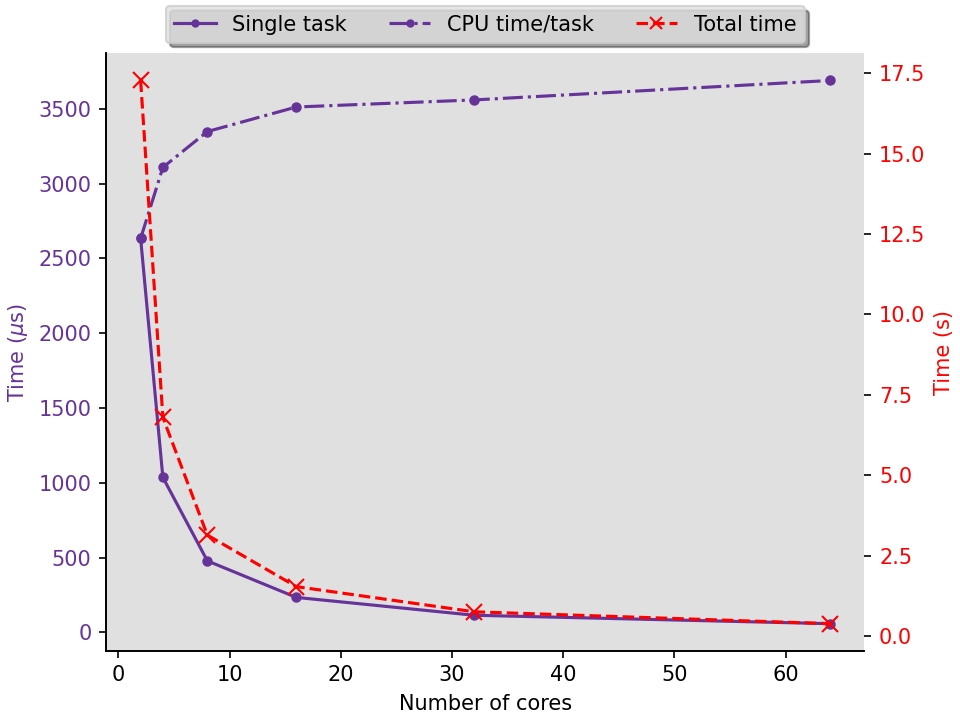
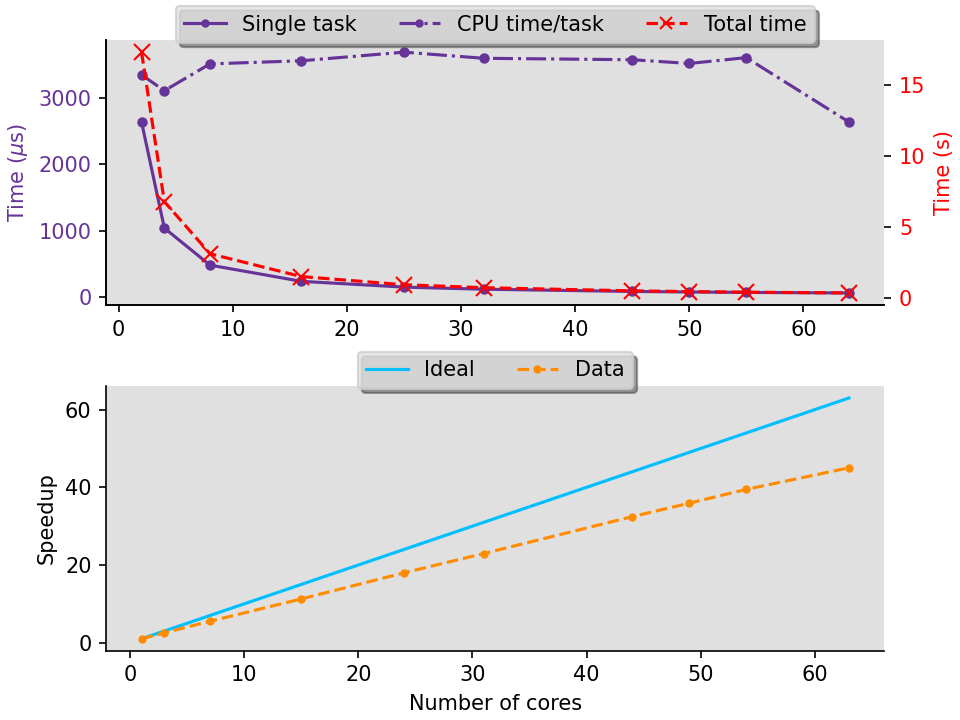
visualization

diff --git a/Assignments/3Assignment_particle/visualize_results.py b/Assignments/3Assignment_particle/visualize_results.py
@@ -2,6 +2,8 @@ import numpy as np
 import matplotlib.pyplot as plt
 import general_functions as gf  # My file with functions
 from matplotlib.lines import Line2D
+from scipy.optimize import curve_fit
+
 
 # Load data
 data = np.genfromtxt("slurm_time_output.txt", delimiter=",", skip_header=1)
@@ -9,40 +11,104 @@ Ntasks = data[:, 0]
 time_task = data[:, 1]
 time_total = data[:, 2]
 
+# Multiple datapoints for ntasks = 2 (i.e 1 worker). 
+# Combine into one and get uncertainty
+one_worker_idx = np.where(Ntasks==2)[0]
+not_one_worker_idx = np.where(Ntasks!=2)[0]
+time_task_one_worker = time_task[one_worker_idx]
+time_total_one_worker = time_total[one_worker_idx]
+
+mean_task = np.mean(time_task_one_worker)
+std_task = np.std(time_task_one_worker) / np.sqrt(time_total_one_worker.size)
+mean_total = np.mean(time_total_one_worker)
+std_total = np.std(time_total_one_worker) / np.sqrt(time_total_one_worker.size)
+
+# Remove the one worker points and insert the mean instead
+Ntasks = np.append(Ntasks[not_one_worker_idx], 2)
+time_task = np.append(time_task[not_one_worker_idx], mean_task)
+time_total = np.append(time_total[not_one_worker_idx], mean_total)
+
+CPU_time_per_task = time_task * (Ntasks - 1)  # -1 because of Master
+
 # Sort data
 sort_idx = np.argsort(Ntasks)
 Ntasks = Ntasks[sort_idx]
 time_task = time_task[sort_idx]
 time_total = time_total[sort_idx]
 
-# Subtask A
+
+# -- SUBTASK A --
 # Plot time_task vs Ntasks
-CPU_time_per_task = time_task * (Ntasks - 1)  # -1 because of Master
+def subtask_A():
+    fig, (ax, ax1) = plt.subplots(nrows=2)
+    ax_color = "rebeccapurple"
+    ax.plot(Ntasks, time_task, ".-", c=ax_color, markersize=8, label="Single Task")
+    ax.plot(Ntasks, CPU_time_per_task, ls="dashdot", marker=".", markersize=8, c=ax_color, label="CPU time/task")
+    ax.set_ylabel(r"Time ($\mu$s)", color=ax_color)
+    ax.tick_params(axis="y", labelcolor=ax_color)
 
-fig, ax = plt.subplots()
-ax_color = "rebeccapurple"
-ax.plot(Ntasks, time_task, ".-", c=ax_color, markersize=8, label="Single Task")
-ax.plot(Ntasks, CPU_time_per_task, ls="dashdot", marker=".", markersize=8, c=ax_color, label="CPU time/task")
-ax.set(xlabel="Number of cores")
-ax.set_ylabel(r"Time ($\mu$s)", color=ax_color)
-ax.tick_params(axis="y", labelcolor=ax_color)
+    # Twin axis
+    ax_twin = ax.twinx()
+    ax_twin_color = "red"
+    ax_twin.set_ylabel(r"Time (s)", color=ax_twin_color)
+    ax_twin.plot(Ntasks, time_total, ls="--", marker="x", markersize=8, c=ax_twin_color)
+    ax_twin.tick_params(axis="y", labelcolor=ax_twin_color)
+
+    legend_elements = [Line2D([], [], color=ax_color, ls="-", marker=".", label="Single task"),
+                    Line2D([], [], color=ax_color, ls="dashdot", marker=".", label="CPU time/task"),
+                    Line2D([], [], color=ax_twin_color, ls="--", marker="x", label="Total time")]
+    ax.legend(handles=legend_elements, loc="lower center", bbox_to_anchor=(0.5, 0.95), ncol=3)
+
+    # Ax 1 - relative
+
+    N_worker = Ntasks - 1    
+    time_task_rel = time_task[0] / time_task  # Ignore the first point as it 
+    ax1.plot(N_worker, N_worker, c="deepskyblue", label="Ideal")  
+    ax1.plot(N_worker, time_task_rel, ls="--", marker=".", c="darkorange", label="Data")  # -1 to remove master
+    ax1.set(xlabel="Number of cores", ylabel="Speedup")
+    ax1.legend(loc="lower center", bbox_to_anchor=(0.5, 0.95), ncol=2)
+
+    figname = "ex3a_time_per_task.png"
+    plt.savefig(figname)
+    plt.show()
+    plt.close()
 
 
-# Twin axis
-ax_twin = ax.twinx()
-ax_twin_color = "red"
-ax_twin.set_ylabel(r"Time (s)", color=ax_twin_color)
-ax_twin.plot(Ntasks, time_total, ls="--", marker="x", markersize=8, c=ax_twin_color)
-ax_twin.tick_params(axis="y", labelcolor=ax_twin_color)
+# -- SUBTASK B --
+def subtask_B():
 
-legend_elements = [Line2D([], [], color=ax_color, ls="-", marker=".", label="Single task"),
-                   Line2D([], [], color=ax_color, ls="dashdot", marker=".", label="CPU time/task"),
-                   Line2D([], [], color=ax_twin_color, ls="--", marker="x", label="Total time")]
-ax.legend(handles=legend_elements, loc="lower center", bbox_to_anchor=(0.5, 1), ncol=3)
+    # Vurder hvilke dele af koden som er parallel og serial. Brug derefter profiler til at sige hvor stor en del de fylder af tiden?
+    # Fit vores data for at finde serial og parallel fraction
 
+    fig, ax = plt.subplots()
+    def amdahl_law_theoretical(N_processor, parallel_fraction):
+        """Amdahl's law given the number of processors and the fraction of the program that is parallel."""
+        S_latency = 1 / ((1 - parallel_fraction) + parallel_fraction / N_processor)
+        return S_latency
 
-figname = "ex3a_time_per_task.png"
-plt.savefig(figname)
-plt.show()
-plt.close()
+    N_worker = Ntasks - 1
+    time_task_rel = time_task[0] / time_task 
+    std_task_rel = std_task * time_task_rel
 
+    par, cov = curve_fit(amdahl_law_theoretical, N_worker, time_task_rel, sigma=std_task_rel, p0=(0.5, ))
+    err = np.sqrt(np.diag(cov))
+    x_fit = np.linspace(N_worker.min(), N_worker.max(), 200)
+    y_fit = amdahl_law_theoretical(x_fit, *par)
+    ax.plot(N_worker, N_worker, c="deepskyblue", label="Ideal")  
+    ax.errorbar(N_worker, time_task_rel, yerr=std_task_rel, ls="--", fmt=".", c="darkorange", label="Data") 
+    ax.plot(x_fit, y_fit, "-", label="Fit")
+    ax.set(xlabel="Number of cores", ylabel="Speedup")
+    ax.legend(loc="lower center", bbox_to_anchor=(0.5, 0.95), ncol=3)
+    str_result = r"$P = $" + f"{par[0]:.3f}" + r"$\pm$" + f"{err[0]:.3f}"
+    ax.text(10, 40, s=str_result)
+
+    figname = "ex3b_amdahl.png"
+    plt.savefig(figname)
+    plt.show()
+    plt.close()
+
+    
+    
+if __name__ == "__main__":
+    subtask_A()
+    subtask_B()
